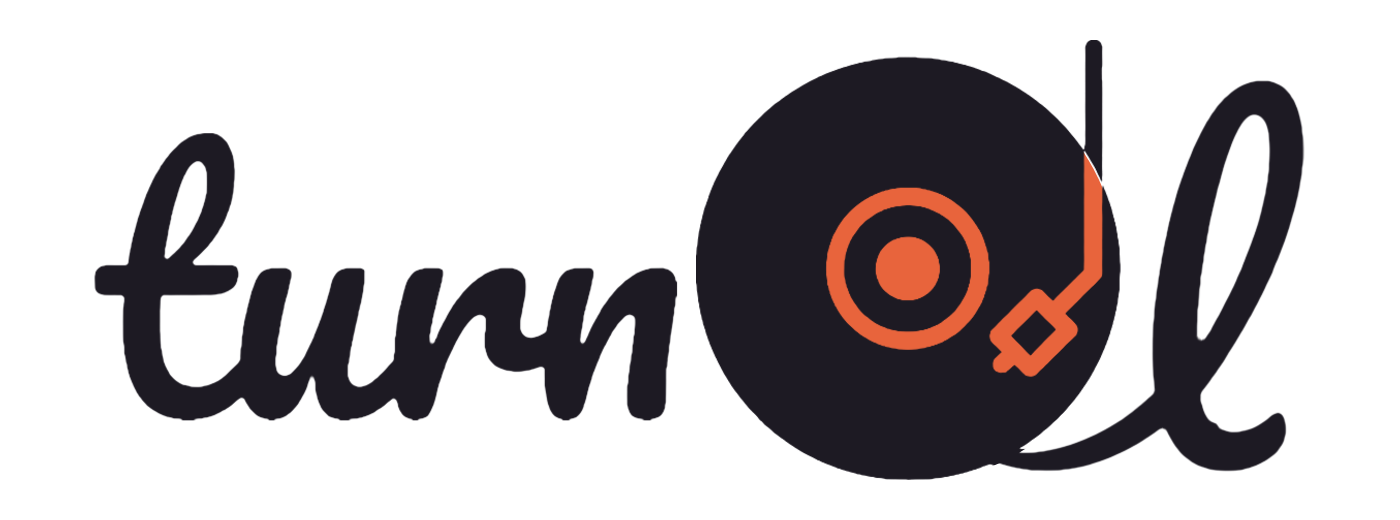
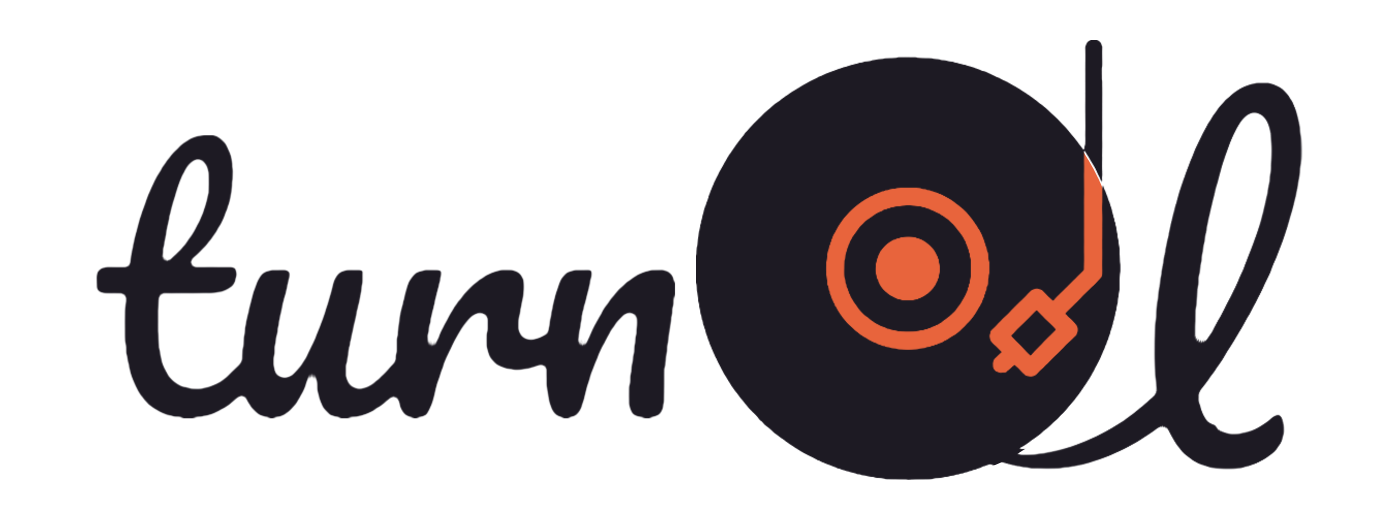
워드마크 더 얇게 + 캐시 갱신
- turn·ℓ 획을 원본 기준 약 32px 로 더 얇게 (침식 반지름 turn 3.5px / ℓ 5.5px). 판·톤암·라벨은 그대로
- 서비스워커 캐시 키 v2 → v3, 워드마크 img src 에 ?v=3 을 붙여 이전 캐시본이 계속 보이던 문제 해결
  (정적 자산은 캐시 우선이라 파일만 바꾸면 기존 설치본에서 갱신되지 않았음)

Claude-Session: https://claude.ai/code/session_01RaKXDuWjQRYDcbkM1oTs7b

diff --git a/index.html b/index.html
@@ -1002,7 +1002,7 @@ html[data-theme="light"] .auth-wordmark.wm-light{display:block}
 
 <div id="auth-screen">
   <div class="auth-card">
-    <div class="auth-logo"><img class="auth-wordmark wm-dark" src="icons/wordmark.png" alt="turn잇 — Turnit" width="1400" height="520"><img class="auth-wordmark wm-light" src="icons/wordmark-dark.png" alt="turn잇 — Turnit" width="1400" height="520"></div>
+    <div class="auth-logo"><img class="auth-wordmark wm-dark" src="icons/wordmark.png?v=3" alt="turn잇 — Turnit" width="1400" height="520"><img class="auth-wordmark wm-light" src="icons/wordmark-dark.png?v=3" alt="turn잇 — Turnit" width="1400" height="520"></div>
     <div class="auth-tagline">내 바이닐 컬렉션을 어디서나</div>
     <div class="auth-tabs">
       <button class="auth-tab on" data-mode="login">로그인</button>
@@ -1029,7 +1029,7 @@ html[data-theme="light"] .auth-wordmark.wm-light{display:block}
   <button class="cf-mode-toggle" id="cf-mode-toggle" type="button" aria-label="자켓/LP판 보기 전환" title="자켓 ↔ LP판 보기">
     <span class="cf-mode-ic" id="cf-mode-ic"></span><span id="cf-mode-lab">LP판 보기</span>
   </button>
-  <div class="hdr-logo"><img class="wm-dark" src="icons/wordmark.png" alt="turn잇 — Turnit" width="1400" height="520"><img class="wm-light" src="icons/wordmark-dark.png" alt="turn잇 — Turnit" width="1400" height="520"></div>
+  <div class="hdr-logo"><img class="wm-dark" src="icons/wordmark.png?v=3" alt="turn잇 — Turnit" width="1400" height="520"><img class="wm-light" src="icons/wordmark-dark.png?v=3" alt="turn잇 — Turnit" width="1400" height="520"></div>
   <div class="acct" id="acct">
     <button class="acct-btn" id="acct-btn">
       <svg width="13" height="13" viewBox="0 0 24 24" fill="none" stroke="currentColor" stroke-width="2"><circle cx="12" cy="8" r="4"/><path d="M4 21v-1a6 6 0 0 1 6-6h4a6 6 0 0 1 6 6v1"/></svg>

diff --git a/sw.js b/sw.js
@@ -2,7 +2,7 @@
    - 앱 셸(아이콘/매니페스트)은 캐시 우선으로 빠르게
    - 화면(HTML/네비게이션)은 네트워크 우선 → 웹 배포 시 항상 최신 버전 표시
    - Firebase/gstatic 등 외부(cross-origin) 요청은 가로채지 않음 */
-const CACHE = 'lp-archive-v2';   // 아이콘·워드마크 교체 → 캐시 갱신
+const CACHE = 'lp-archive-v3';   // 아이콘·워드마크 교체 → 캐시 갱신
 const SHELL = [
   './manifest.webmanifest',
   './icons/icon-192.png',
